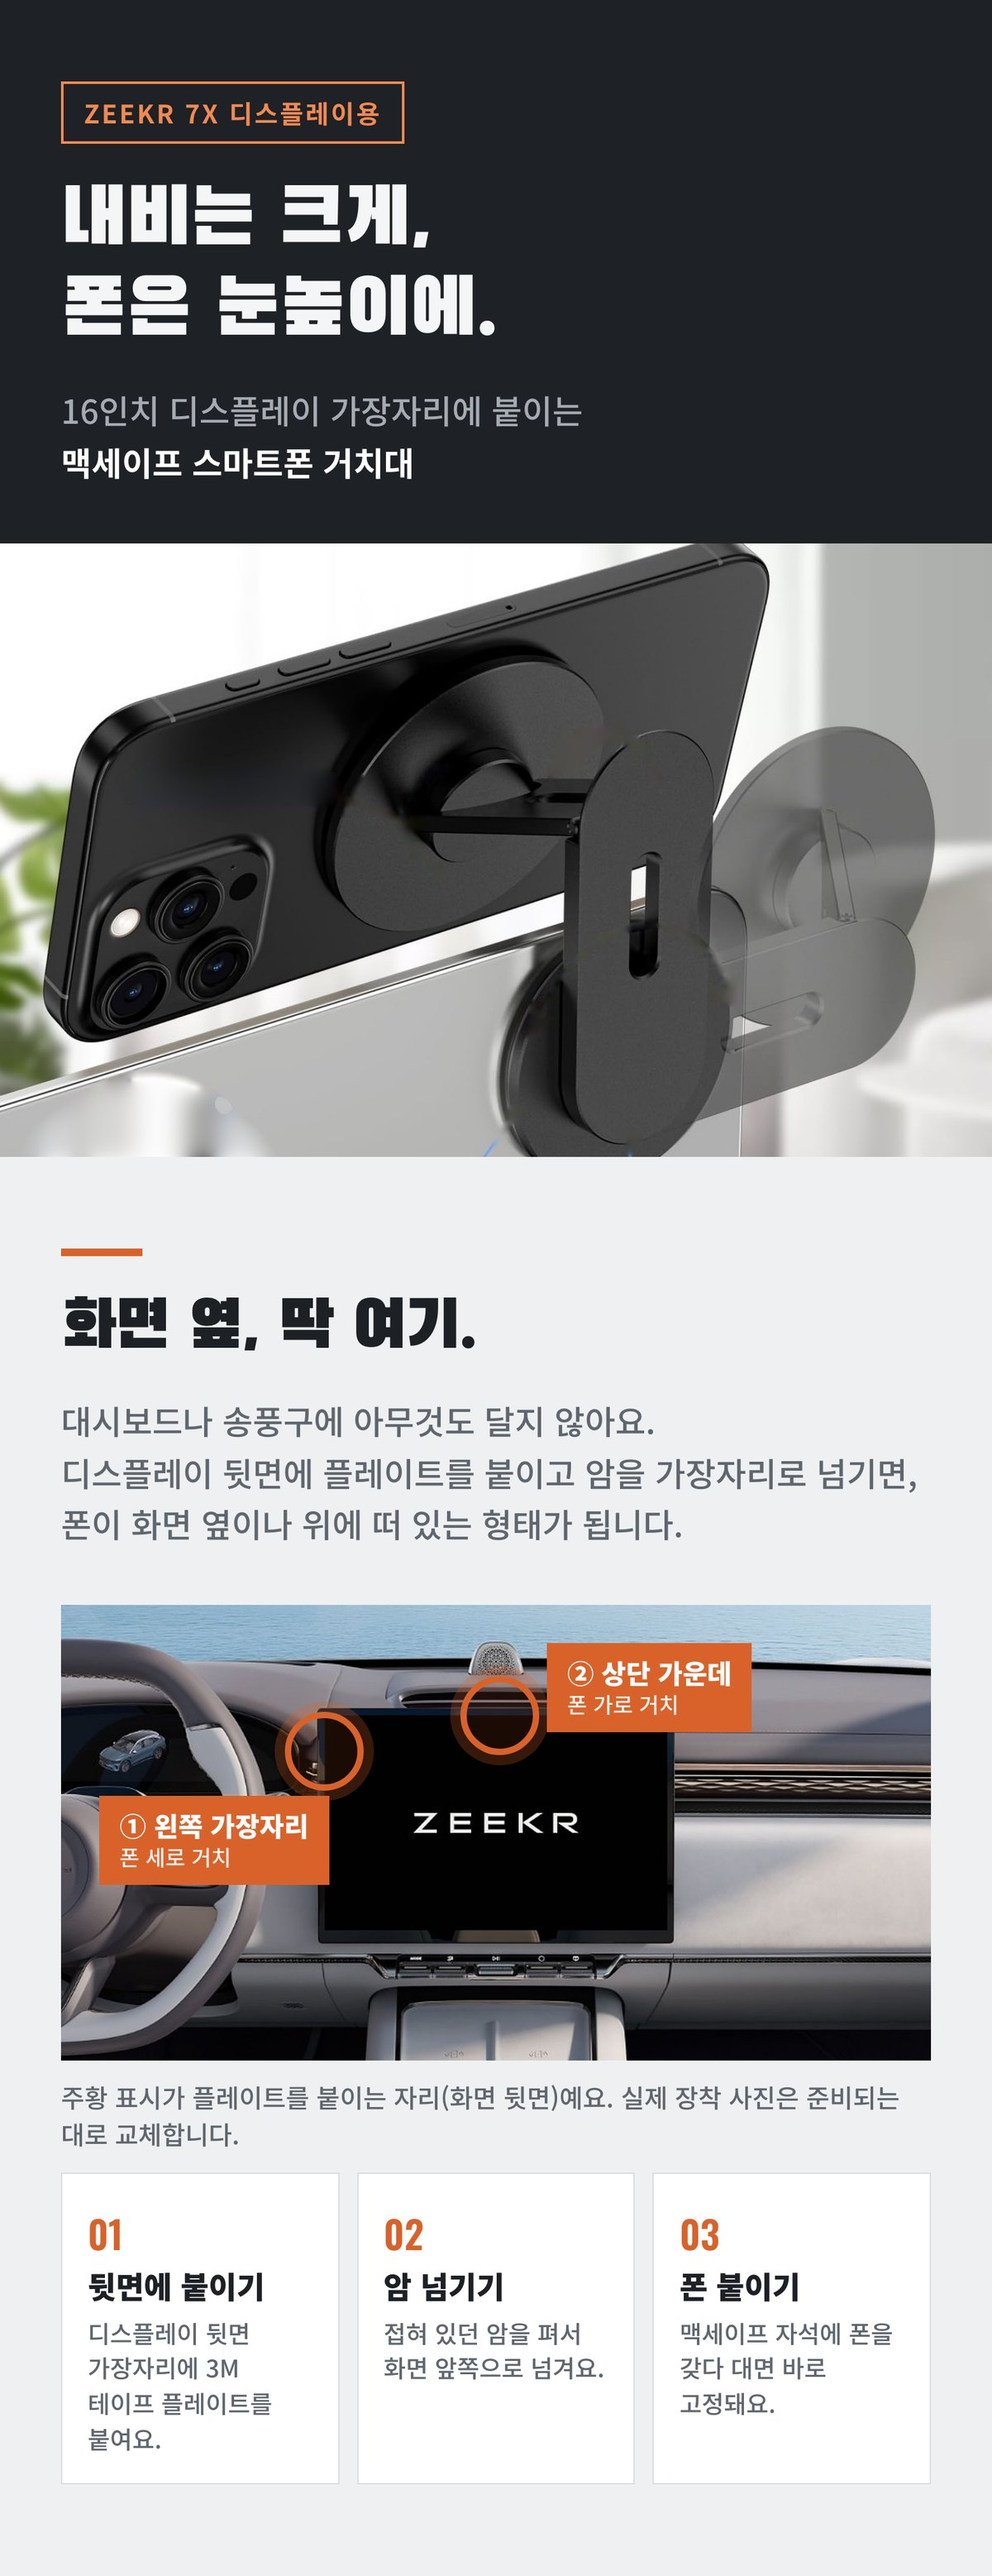
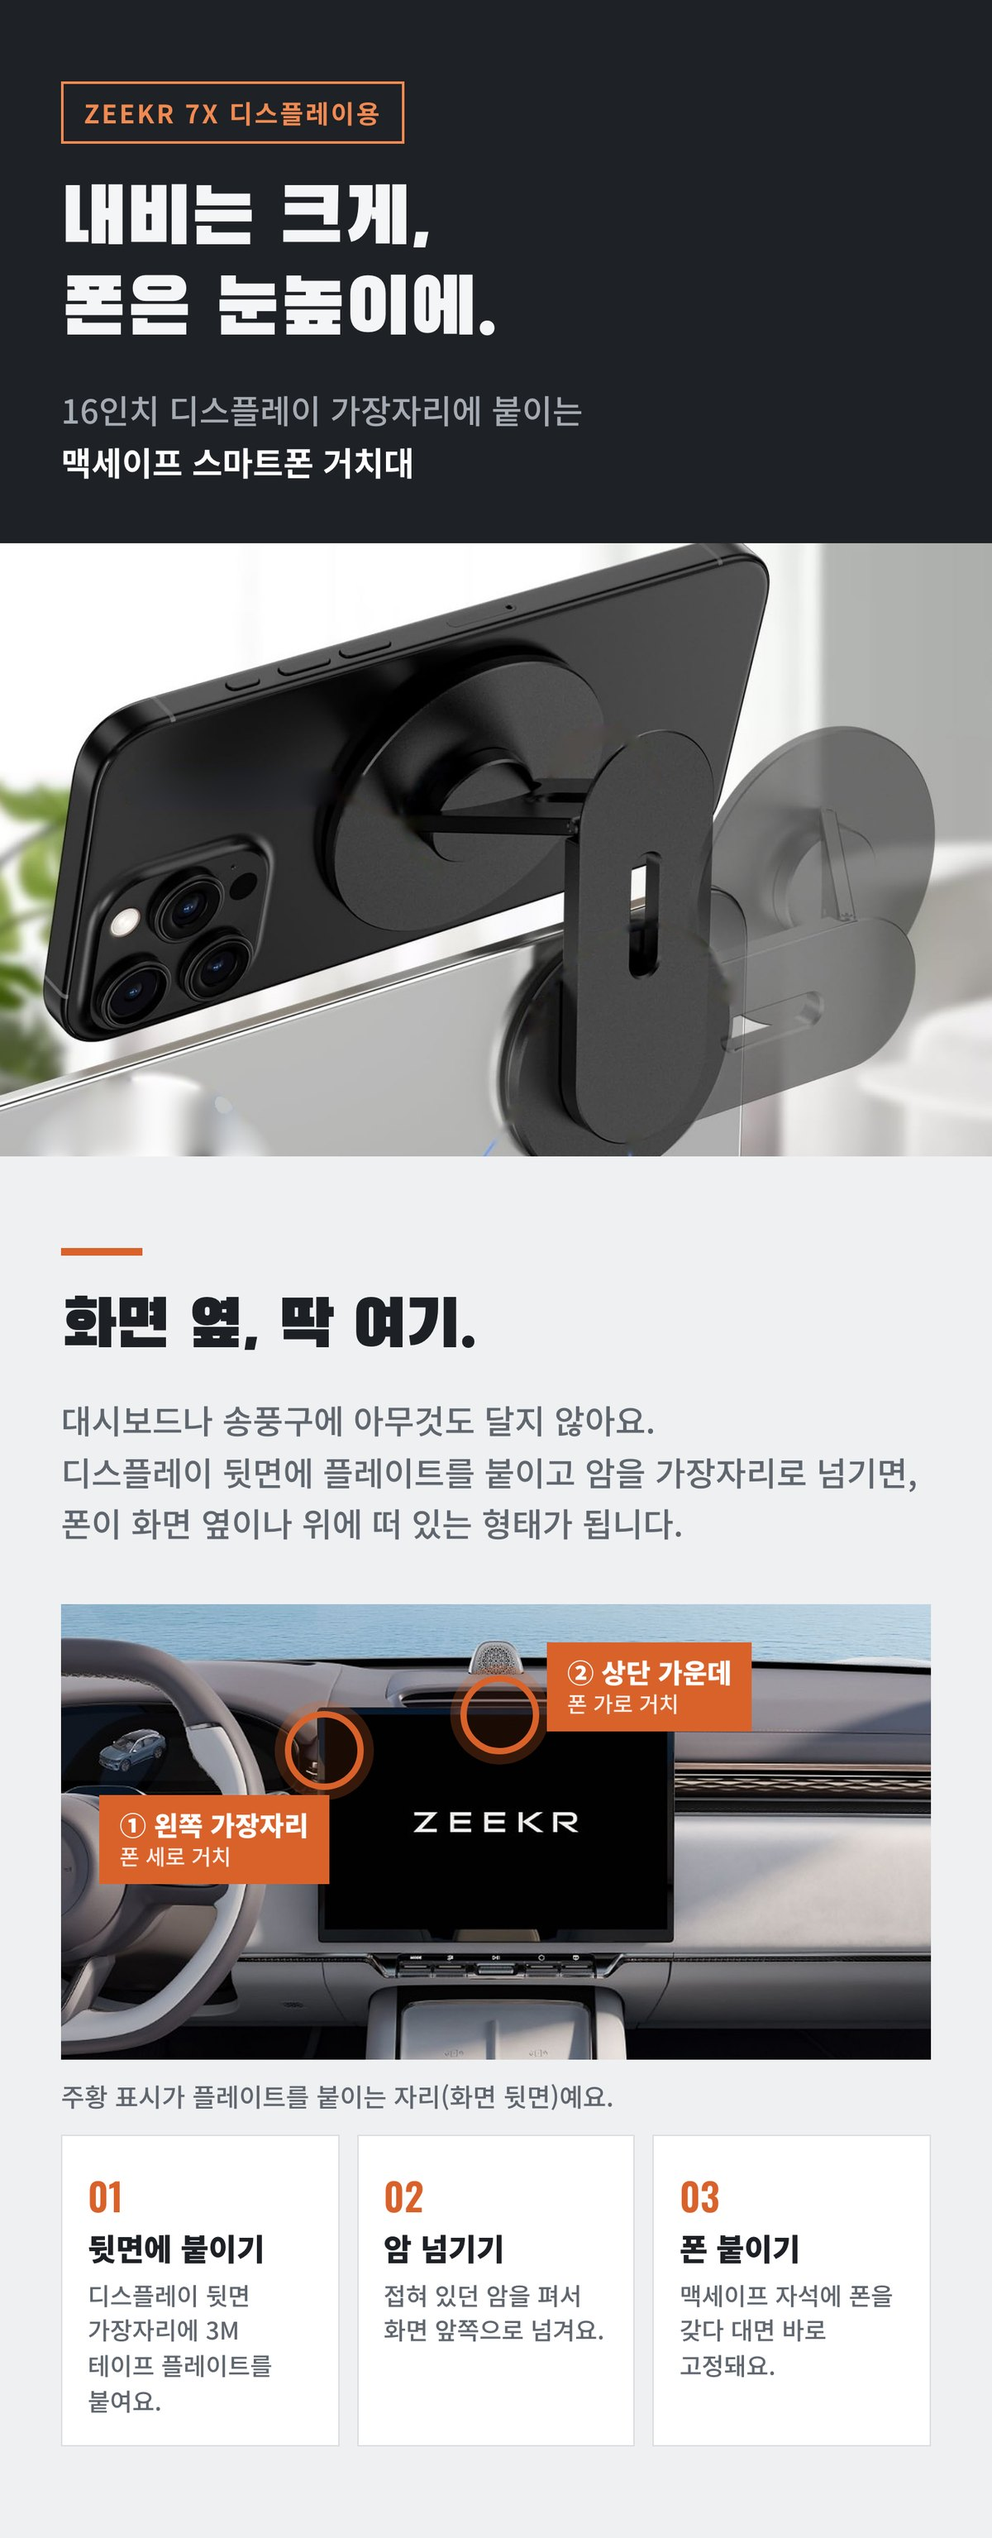
13번: '실제 장착 사진 교체 예정' 문구 삭제

diff --git a/shop/config.js b/shop/config.js
@@ -8,6 +8,6 @@ window.SHEET_URL = 'https://docs.google.com/spreadsheets/d/19crq_-szVqdJRlVK12RK
 window.KAKAO_CHANNEL_URL = 'https://pf.kakao.com/_vtvxiX/chat';
 
 // 상품 사진 버전 (사진을 교체하면 숫자를 올려 주세요)
-window.ASSET_V = '10201330';
+window.ASSET_V = '10201340';
 // 토스페이먼츠 클라이언트 키 (공개용 · test_ck_… 또는 live_ck_…). 비어 있으면 카드결제 숨김. 시크릿 키는 절대 여기 넣지 말 것 → Supabase Edge Function Secrets
 window.TOSS_CLIENT_KEY = '';
